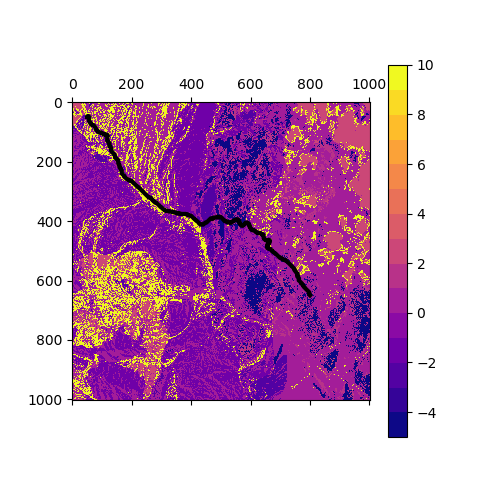
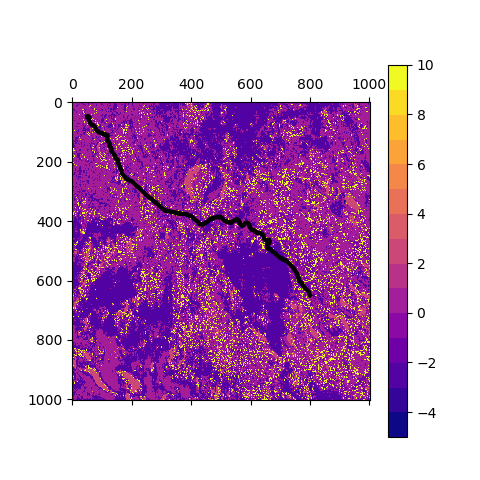
Added Martian rgb image to 2d simulator
Path gen still placeholder pass thru for now

Changed region(s): [[0.125, 0.1875, 0.7812, 0.8438]]

diff --git a/src/simulator.py b/src/simulator.py
@@ -54,7 +54,7 @@ class simulation(QDialog):
         self.sketchLabels = {};
         self.sketchDensity = 3; #radius in pixels of drawn sketch points
 
-        img = cv2.imread('../img/atacamaTexture1001.png')
+        img = cv2.imread('../img/mars/1001/Mars_Color_Viz_1001.png')
         self.rewardMatrix = np.zeros((img.shape[0], img.shape[1]))
 
         #A* Params
@@ -115,7 +115,7 @@ class simulation(QDialog):
     def graphics(self):
 
         self.scene1 = QGraphicsScene()
-        self.scene1.addPixmap(QPixmap('../img/atacamaTexture500'))
+        self.scene1.addPixmap(QPixmap('../img/mars/Mars_Color_Viz_500.png'))
         self.graphicsView.setScene(self.scene1)
 
         #makeTruePlane(self)
@@ -143,7 +143,7 @@ class simulation(QDialog):
 
     def generate_heatmap_clicked(self):
         print("<<Generating Heatmap>>")
-        self.rewardMatrix = image2reward('../img/atacamaTexture1001.png',False)
+        self.rewardMatrix = image2reward('../img/mars/1001/Mars_Color_Viz_1001.png',False)
         print("<<Heatmap Generated>>")
         #print("<<Loading Heatmap>>")
         #scene_2.addPixmap(QPixmap(self.rewardMatrix))
@@ -315,7 +315,7 @@ def imageMouseRelease(QMouseEvent,wind):
 
 def makeTruePlane(wind):
 
-	wind.trueImage = QPixmap('../img/atacamaTexture1001.png');
+	wind.trueImage = QPixmap('../img/mars/1001/Mars_Color_Viz_1001.png');
 	wind.imgWidth = wind.trueImage.size().width();
 	wind.imgHeight = wind.trueImage.size().height();
 
